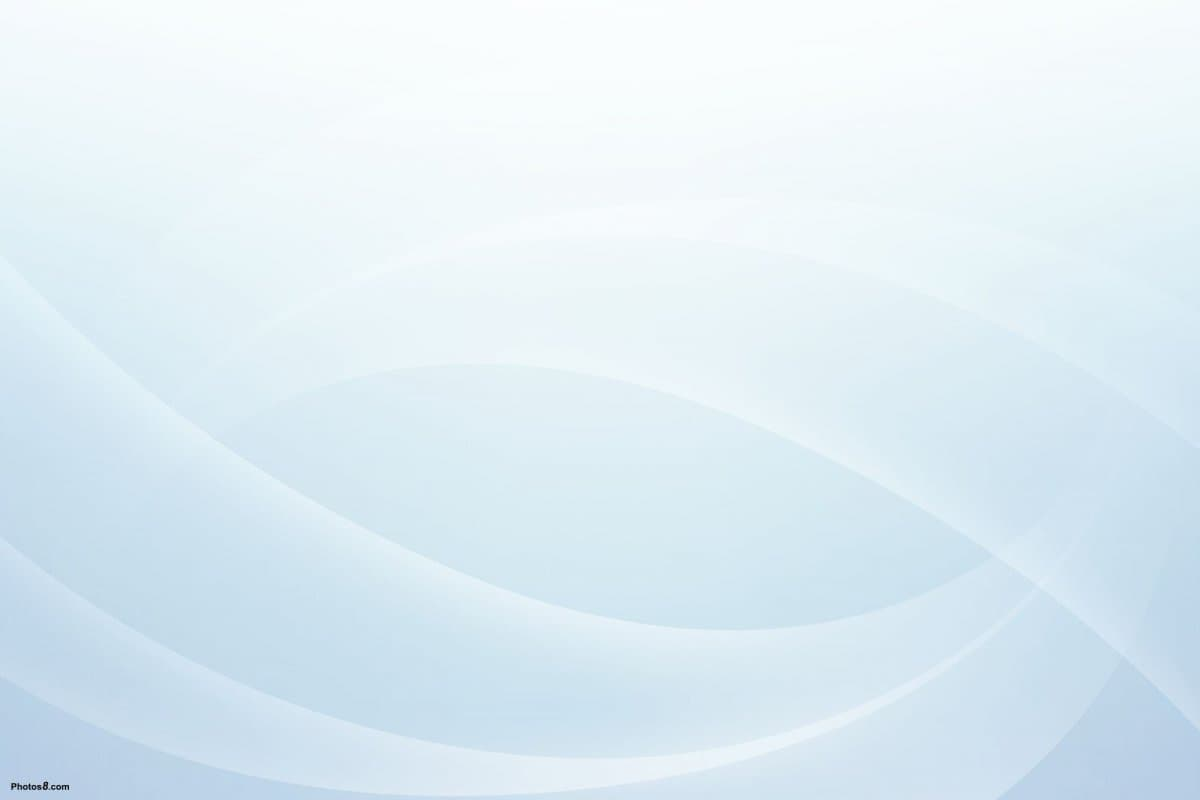
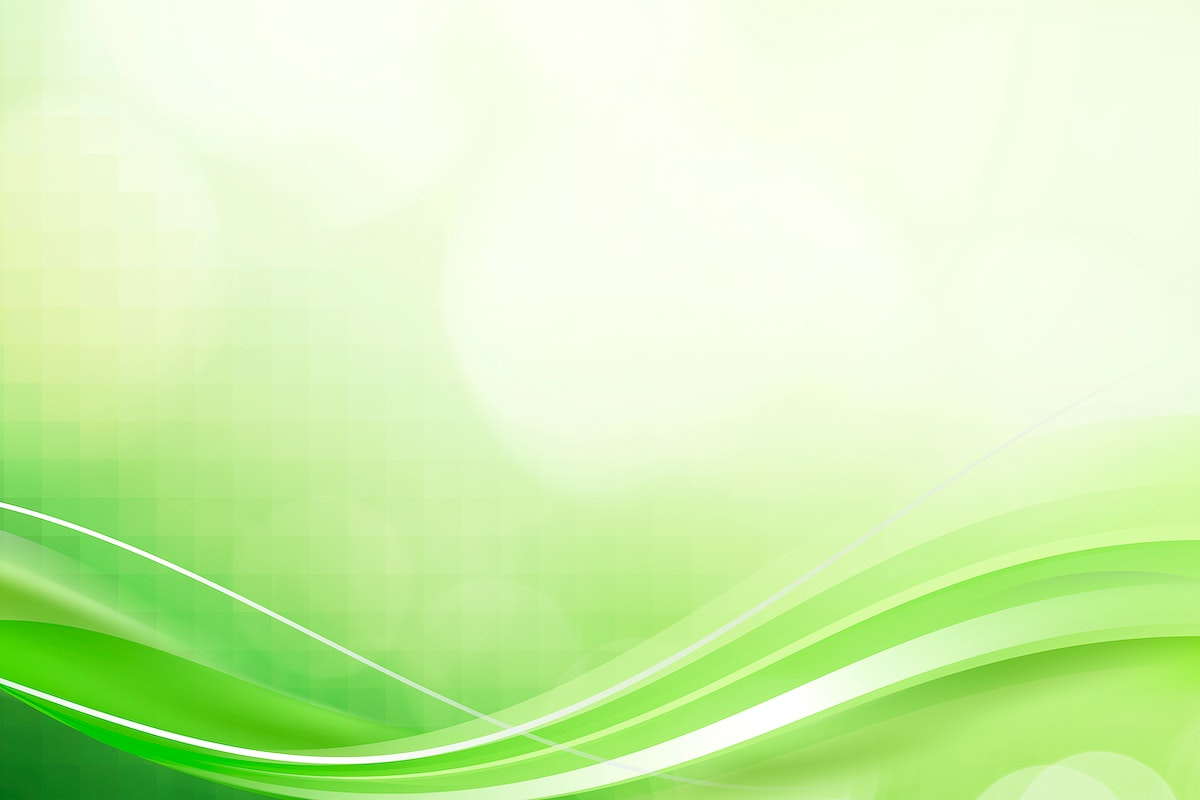
dz 1
dz 1

diff --git a/src/redux/auth/operations.js b/src/redux/auth/operations.js
@@ -3,26 +3,21 @@ import { createAsyncThunk } from '@reduxjs/toolkit';
 
 axios.defaults.baseURL = 'https://connections-api.herokuapp.com/';
 
-// Utility to add JWT
 const setAuthHeader = token => {
   axios.defaults.headers.common.Authorization = `Bearer ${token}`;
 };
 
-// Utility to remove JWT
+
 const clearAuthHeader = () => {
   axios.defaults.headers.common.Authorization = '';
 };
 
-/*
- * POST @ /users/signup
- * body: { name, email, password }
- */
+
 export const register = createAsyncThunk(
   'auth/register',
   async (credentials, thunkAPI) => {
     try {
       const res = await axios.post('/users/signup', credentials);
-      // After successful registration, add the token to the HTTP header
       setAuthHeader(res.data.token);
       console.log(res.data);
       return res.data;
@@ -32,16 +27,12 @@ export const register = createAsyncThunk(
   }
 );
 
-/*
- * POST @ /users/login
- * body: { email, password }
- */
+
 export const logIn = createAsyncThunk(
   'auth/login',
   async (credentials, thunkAPI) => {
     try {
       const res = await axios.post('/users/login', credentials);
-      // After successful registration, add the token to the HTTP header
       setAuthHeader(res.data.token);
       console.log(res.data);
       return res.data;
@@ -51,14 +42,10 @@ export const logIn = createAsyncThunk(
   }
 );
 
-/*
- * POST @ /users/logout
- * headers: Authorization: Bearer token
- */
+
 export const logOut = createAsyncThunk('auth/logout', async (_, thunkAPI) => {
   try {
     await axios.post('/users/logout');
-    // After a successful logout, remove the token from the HTTP header
     clearAuthHeader();
   } catch (error) {
     return thunkAPI.rejectWithValue(error.message);
@@ -66,17 +53,12 @@ export const logOut = createAsyncThunk('auth/logout', async (_, thunkAPI) => {
 }
 );
 
-/*
- * GET @ /users/current
- * headers: Authorization: Bearer token
- */
+
 export const refreshUser = createAsyncThunk(
   'auth/refresh',
   async (_, thunkAPI) => {
-    // const {token} = thunkAPI.getState().auth;
     const state = thunkAPI.getState();
     const persistedToken = state.auth.token;
-    // const state = thunkAPI.getState().auth;
     console.log(persistedToken);
 
     if (persistedToken === null) {
@@ -84,7 +66,6 @@ export const refreshUser = createAsyncThunk(
     } else {
       console.log("Refreshing user");
       setAuthHeader(persistedToken);
-      // token.set(persistedToken);
     }
     
     try {      

diff --git a/src/redux/auth/slice.js b/src/redux/auth/slice.js
@@ -43,43 +43,9 @@ const authSlice = createSlice({
           state.user = action.payload;
           state.isLoggedIn = true;          
           state.isRefreshing = false;
-          // toast.success('Wellcome back!')
+  
         })
-        // .addCase(refreshUser.pending, (state, action) => {
-        //   state.isRefreshing = false;
-        // })        
+        
   })
 
 export const authReducer = authSlice.reducer;
-
-// ---either---
-// extraReducers: {
-//   [register.fulfilled](state, action) {
-//     state.user = action.payload.user;
-//     state.token = action.payload.token;
-//     state.isLoggedIn = true;
-//     // toast.success('Your account was successfully created');
-//   },
-//   [register.rejected]() {
-//     // toast.error('User creation error. Try again with another email address');
-//   },
-//   [logIn.fulfilled](state, action) {
-//     state.user = action.payload.user;
-//     state.token = action.payload.token;
-//     state.isLoggedIn = true;
-//     // toast.success(`Welcome ${action.payload.user.name}`);
-//   },
-//   [logIn.rejected]() {
-//     // toast.error('Incorrect email or password! Please try again');
-//   },
-//   [logOut.fulfilled](state) {
-//     state.user = { name: null, email: null };
-//     state.token = null;
-//     state.isLoggedIn = false;
-//     // toast.success('Goodbye')
-//   },
-//   [refreshUser.fulfilled](state, action) {
-//     state.user = action.payload;
-//     state.isLoggedIn = true;
-//   },
-// }

diff --git a/src/components/ContactAddForm/ContactAddForm.jsx b/src/components/ContactAddForm/ContactAddForm.jsx
@@ -15,7 +15,6 @@ export const ContactForm = () => {
     const [number, setNumber] = useState('');
     const dispatch = useDispatch(); 
     const contacts = useSelector(selectСontacts);
-    // console.log(contacts);
 
     const handleInputChange = event => {
         switch (event.currentTarget.name) {
@@ -82,7 +81,6 @@ export const ContactForm = () => {
             title="Name may contain only letters, apostrophe, dash and spaces. For example Adrian, Jacob Mercer, Charles de Batz de Castelmore d'Artagnan"
             size="small"
             margin="none"          
-            // fullWidth
             id="name"
             label="Name"
             inputProps={{
@@ -113,7 +111,6 @@ export const ContactForm = () => {
         </Box>       
           <Button
             type="submit"
-            // fullWidth
             variant="contained"
             sx={{ mr: -1, mt: "18px", width: '200px' }}
           >

diff --git a/src/redux/contacts/operations.js b/src/redux/contacts/operations.js
@@ -3,7 +3,6 @@ import axios from 'axios';
 
 axios.defaults.baseURL = 'https://connections-api.herokuapp.com';
 
-// GET @ /contacts
 export const fetchContacts = createAsyncThunk(
   'contacts/fetchAll',
   async (_, thunkAPI) => {
@@ -18,7 +17,7 @@ export const fetchContacts = createAsyncThunk(
   }
 );
 
-// POST @ /contacts
+
 export const addContact = createAsyncThunk(
   'contacts/addContact',
   async (contact, thunkAPI) => {
@@ -33,7 +32,6 @@ export const addContact = createAsyncThunk(
   }
 );
 
-// DELETE @ /contacts/:id
 export const deleteContact = createAsyncThunk(
   'contacts/deleteContact',
   async (contactId, thunkAPI) => {

diff --git a/src/components/LoginForm/LoginForm.jsx b/src/components/LoginForm/LoginForm.jsx
@@ -45,18 +45,6 @@ export default function LoginForm() {
     };
   }
 
-  //   ---  or ---
-  // const handleChange = ({ target: { name, value } }) => {
-  //   switch (name) {
-  //     case 'email':
-  //       return setEmail(value);
-  //     case 'password':
-  //       return setPassword(value);
-  //     default:
-  //       return;
-  //   }
-  // };
-
 
   const handleSubmit = e => {
     e.preventDefault();
@@ -74,8 +62,6 @@ export default function LoginForm() {
         password: password, 
     }));
     
-    // setEmail('');
-    // setPassword('');
   };
 
   return (

diff --git a/src/redux/store.js b/src/redux/store.js
@@ -15,7 +15,6 @@ import { filterReducer } from './contacts/filterSlice';
 import { contactsReducer } from './contacts/slice';
 
 
-// Persisting token field from auth slice to localstorage
 const authPersistConfig = {
   key: 'auth',
   storage,
@@ -34,7 +33,6 @@ export const store = configureStore({
       ignoreActions: [FLUSH, REHYDRATE, PAUSE, PERSIST, PURGE, REGISTER],
     },
   }),
-  // devTools: process.env.NODE_ENV === 'development',
 });
 
 export const persistor = persistStore(store);

diff --git a/src/index.css b/src/index.css
@@ -1,4 +1,4 @@
-@import-normalize; /* bring in normalize.css styles */
+@import-normalize;
 
 body {
   margin: 0;
@@ -8,7 +8,7 @@ body {
   -webkit-font-smoothing: antialiased;
   -moz-osx-font-smoothing: grayscale;
   height: 100vh;
-  background-image: url('./images/background4.jpg');
+  background-image: url('./images/background.jpg');
   background-repeat: no-repeat;
   background-size: cover;
   background-attachment: fixed;

diff --git a/src/pages/Title.styled.jsx b/src/pages/Title.styled.jsx
@@ -1,5 +1,4 @@
 import styled from 'styled-components';
-// import image from '../images/background.jpg'
 
 export const Title = styled.h1`
   font-family: 'Handlee', cursive;
@@ -33,7 +32,6 @@ export const Main = styled.main`
   align-items: center;
   padding-top: 54px;  
 `
-/* background-image: url('${image }'); */
 
 export const HeroSection = styled.section`
   margin-top: 60px;

diff --git a/src/pages/Home.js b/src/pages/Home.js
@@ -1,7 +1,7 @@
 import { Link } from "react-router-dom";
 import { ContentText, ContentTitle, HeroSection, Img, ImgWrapper, Main } from "./Title.styled";
 import { Container, Paper, Typography } from "@mui/material";
-import image from '../images/writing-002.jpg';
+import image from '../images/image-cover.jpg';
 import AutoStoriesIcon from "@mui/icons-material/AutoStories";
 
 

diff --git a/src/components/TsparticlesLayout/TsparticlesLayout.jsx b/src/components/TsparticlesLayout/TsparticlesLayout.jsx
@@ -1,7 +1,9 @@
+
+
 import Particles from 'react-particles';
 import { loadFull } from 'tsparticles';
 import { useCallback } from 'react';
-import phonebookBg from '../../images/phonebook-bg3.jpg';
+import phonebookBg from '../../images/phonebook-matrix.jpg';
 
 const TsparticlesLayout = () => {
   const particlesInit = useCallback(async engine => {

diff --git a/src/components/RegisterForm/RegisterForm.jsx b/src/components/RegisterForm/RegisterForm.jsx
@@ -35,7 +35,6 @@ export const RegisterForm = () => {
       default:
         return;
     };
-    // console.log(name, email, password);
 }
       
 
@@ -62,9 +61,6 @@ export const RegisterForm = () => {
       })
     );
 
-    // setName('');
-    // setEmail('');
-    // setPassword('');
   };
 
   return (

diff --git a/src/components/ContactList/ContactList.jsx b/src/components/ContactList/ContactList.jsx
@@ -9,8 +9,6 @@ import { fetchContacts } from 'redux/contacts/operations';
 
 export const ContactList = () => {
   const contacts = useSelector(selectСontacts);
-  // console.log(selectСontacts);
-  // console.log(contacts);
   const filter = useSelector(selectFilter);
   const dispatch = useDispatch();
 
